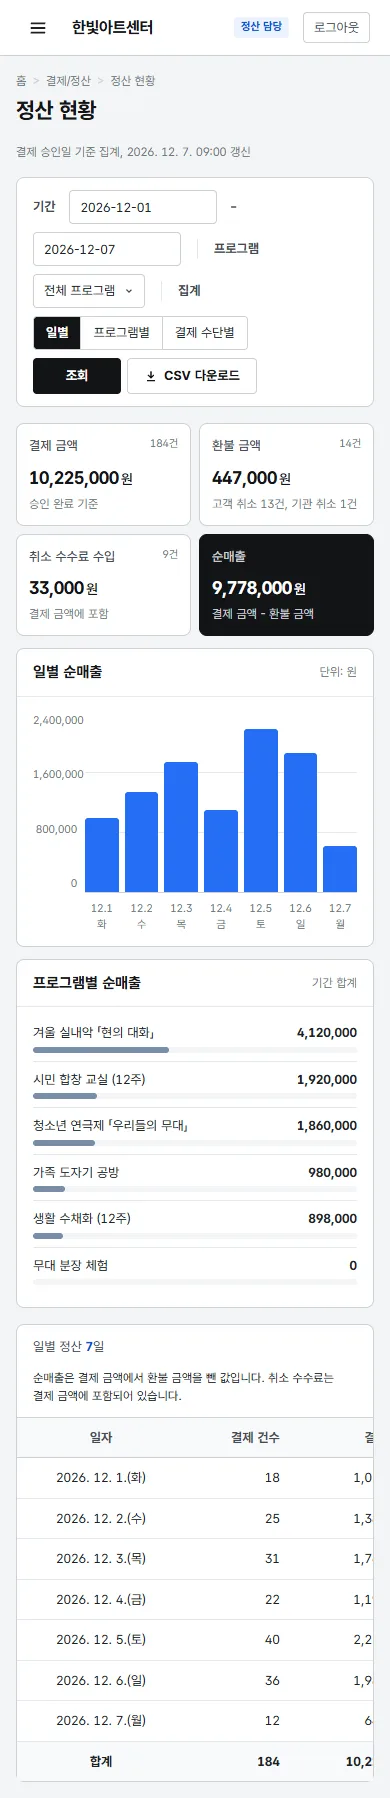
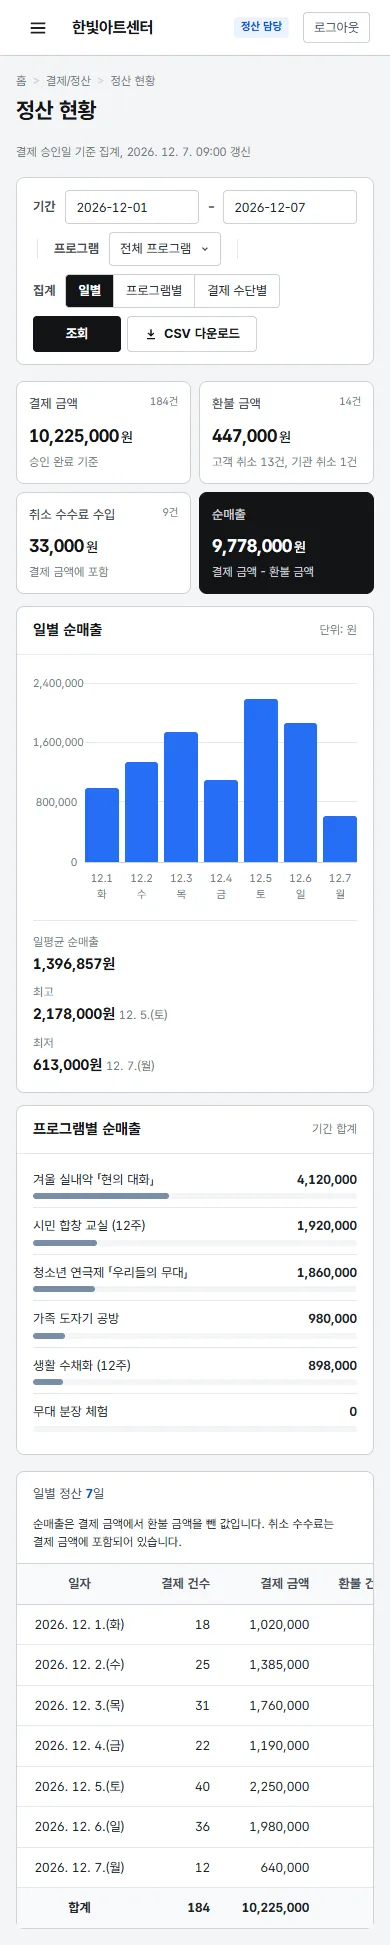
design: 시안 사용성, 반응형 검토 반영(태블릿, 중간 너비, 모바일 고정 바, 정산 그래프)

diff --git a/design/mockups/assets/css/user.css b/design/mockups/assets/css/user.css
@@ -178,6 +178,7 @@ button, input, select { font: inherit; color: inherit; }
 .note.info { background: var(--c-info-soft); color: var(--c-info-text); }
 .note.info svg { color: var(--c-info-text); }
 .mobile-bar { display: none; }
+.m-timer { display: none; }
 
 /* 예매 단계 */
 .steps { display: flex; list-style: none; margin: 0; padding: var(--sp-5) 0; gap: 0; counter-reset: step; }
@@ -226,7 +227,8 @@ button, input, select { font: inherit; color: inherit; }
 .view-toggle button[aria-pressed="true"] { background: var(--c-ink); color: #fff; }
 .hall { margin-top: var(--sp-5); padding: var(--sp-5) var(--sp-4) var(--sp-6); background: #fff; border: 1px solid var(--c-line-soft); border-radius: var(--r-lg); }
 .stage { margin: 0 auto var(--sp-6); width: 62%; height: 34px; border-radius: 0 0 50% 50% / 0 0 100% 100%; background: #dfe2e5; display: grid; place-items: center; font-size: var(--fs-xsmall); font-weight: 700; color: var(--c-text-2); letter-spacing: .3em; }
-.rows { display: grid; gap: 6px; justify-content: center; }
+.hall-scroll { overflow-x: auto; margin: 0 -4px; padding: 4px; }
+.rows { display: grid; gap: 6px; width: max-content; margin: 0 auto; }
 .row { display: grid; grid-template-columns: 18px repeat(4, var(--seat)) 14px repeat(12, var(--seat)) 14px repeat(4, var(--seat)) 18px; gap: 4px; align-items: center; --seat: 22px; }
 .row > .lbl { font-size: 0.6875rem; color: var(--c-text-3); text-align: center; font-weight: 500; }
 .row > .gap { width: 14px; }
@@ -237,6 +239,7 @@ button, input, select { font: inherit; color: inherit; }
 .seat.sold { background: #dfe2e5; cursor: not-allowed; }
 .seat.sel { background: var(--c-action); box-shadow: 0 0 0 2px #fff, 0 0 0 4px var(--c-action); }
 .seat.hold { background: #dfe2e5; cursor: not-allowed; }
+.scroll-hint { display: none; margin: 10px 0 0; font-size: var(--fs-xsmall); color: var(--c-text-3); text-align: center; }
 .hall-foot { display: flex; justify-content: space-between; margin-top: var(--sp-5); font-size: var(--fs-xsmall); color: var(--c-text-3); }
 
 /* 결제 */
@@ -270,7 +273,7 @@ button, input, select { font: inherit; color: inherit; }
 .mypage { display: grid; grid-template-columns: 220px minmax(0, 1fr); gap: var(--sp-7); padding-top: var(--sp-6); padding-bottom: var(--sp-8); align-items: start; }
 .side-nav h2 { font-size: var(--fs-h3); margin: 0 0 var(--sp-3); color: var(--c-ink); }
 .side-nav ul { list-style: none; margin: 0; padding: 0; display: grid; gap: 2px; }
-.side-nav a { display: flex; justify-content: space-between; padding: 10px 12px; border-radius: var(--r-md); color: var(--c-text-2); font-size: var(--fs-small); }
+.side-nav a { display: flex; justify-content: space-between; gap: 6px; white-space: nowrap; padding: 10px 12px; border-radius: var(--r-md); color: var(--c-text-2); font-size: var(--fs-small); }
 .side-nav a[aria-current="page"] { background: var(--c-surface-2); color: var(--c-ink); font-weight: 700; }
 .side-nav a em { font-style: normal; color: var(--c-text-3); font-variant-numeric: tabular-nums; }
 .page-title { margin: 0 0 var(--sp-5); font-size: var(--fs-h1); letter-spacing: -0.03em; color: var(--c-ink); }
@@ -298,7 +301,8 @@ button, input, select { font: inherit; color: inherit; }
 /* 반응형 */
 @media (max-width: 1100px) {
   .grid { gap: var(--sp-6) var(--sp-4); }
-  .hero-grid { grid-template-columns: 1fr; gap: var(--sp-6); }
+  .hero-grid { gap: var(--sp-6); }
+  .hero-feature { grid-template-columns: minmax(0, 0.9fr) minmax(0, 1.1fr); }
   .booking { grid-template-columns: minmax(0, 1fr) 320px; }
   .row { --seat: 18px; gap: 3px; }
 }
@@ -310,15 +314,19 @@ button, input, select { font: inherit; color: inherit; }
   .quick { grid-template-columns: repeat(2, 1fr); }
   .quick a:nth-child(3) { border-left: 0; }
   .quick a:nth-child(n+3) { border-top: 1px solid var(--c-line-soft); }
-  .detail { grid-template-columns: 1fr; gap: var(--sp-5); }
-  .detail .d-poster { position: static; max-width: 320px; }
+  .hero-grid { grid-template-columns: 1fr; }
+  .hero-feature { grid-template-columns: 220px minmax(0, 1fr); }
+  .detail { grid-template-columns: 240px minmax(0, 1fr); gap: var(--sp-5); }
+  .detail .d-poster { top: 80px; }
   .cast { grid-template-columns: repeat(2, minmax(0, 1fr)); }
   .tabs { top: 60px; overflow-x: auto; gap: var(--sp-4); }
   .tabs a { white-space: nowrap; }
-  .booking { grid-template-columns: 1fr; }
+  .booking { grid-template-columns: minmax(0, 1fr); }
   .summary { position: static; }
   .mypage { grid-template-columns: 1fr; gap: var(--sp-4); }
-  .side-nav ul { display: flex; overflow-x: auto; }
+  .side-nav ul { display: flex; overflow-x: auto; gap: var(--sp-4); border-bottom: 1px solid var(--c-line-soft); }
+  .side-nav a { padding: 10px 0; border-radius: 0; margin-bottom: -1px; border-bottom: 2px solid transparent; }
+  .side-nav a[aria-current="page"] { background: none; border-bottom-color: var(--c-ink); }
   .side-nav h2 { display: none; }
   .notice-strip .container { grid-template-columns: 1fr; gap: var(--sp-3); }
   .cta-row.desktop { display: none; }
@@ -326,6 +334,10 @@ button, input, select { font: inherit; color: inherit; }
   .mobile-bar .mb-info { font-size: var(--fs-xsmall); color: var(--c-text-3); }
   .mobile-bar .mb-info b { display: block; font-size: 1rem; color: var(--c-ink); font-variant-numeric: tabular-nums; }
   .mobile-bar .btn { flex: 1; }
+  .m-timer { display: flex; justify-content: space-between; align-items: center; position: sticky; top: 60px; z-index: 12; padding: 10px var(--gutter); background: var(--c-warn-soft); color: var(--c-warn-text); font-size: var(--fs-small); font-weight: 500; }
+  .m-timer b { font-variant-numeric: tabular-nums; }
+  .summary .timer { display: none; }
+  .summary .btn-primary.btn-block { display: none; }
   .steps li { font-size: 0; gap: 0; }
   .steps li[aria-current="step"] { font-size: var(--fs-xsmall); gap: 8px; }
 }
@@ -342,11 +354,12 @@ button, input, select { font: inherit; color: inherit; }
   .seg { overflow-x: auto; }
   .filters .right { justify-content: space-between; }
   .spec { grid-template-columns: 80px 1fr; }
+  .detail { grid-template-columns: 1fr; }
+  .detail .d-poster { position: static; max-width: 240px; }
   .panel-body { padding: var(--sp-4); }
-  .row { --seat: 11px; gap: 2px; grid-template-columns: 12px repeat(4, var(--seat)) 6px repeat(12, var(--seat)) 6px repeat(4, var(--seat)) 12px; }
-  .row > .gap { width: 6px; }
-  .seat { border-radius: 2px 2px 3px 3px; }
-  .seat.sel { box-shadow: 0 0 0 1px #fff, 0 0 0 2px var(--c-action); }
+  .row { --seat: 20px; gap: 3px; }
+  .scroll-hint { display: block; }
+  .stage { width: 80%; }
   .hall { padding: var(--sp-4) var(--sp-2) var(--sp-5); }
   .methods { grid-template-columns: 1fr; }
   .card-fields { grid-template-columns: 1fr; }

diff --git a/design/mockups/assets/css/admin.css b/design/mockups/assets/css/admin.css
@@ -79,7 +79,7 @@ select.ctl { appearance: none; padding-right: 28px; background: #fff url("data:i
 .toolbar { display: flex; align-items: center; justify-content: space-between; gap: 12px; padding: 12px 16px; border-bottom: 1px solid var(--c-line); flex-wrap: wrap; }
 .toolbar .total { font-size: 13px; color: var(--c-text-2); }
 .toolbar .total b { color: var(--c-action-text); font-variant-numeric: tabular-nums; }
-.toolbar .tools { display: flex; align-items: center; gap: 6px; }
+.toolbar .tools { display: flex; align-items: center; gap: 6px; flex-wrap: wrap; }
 .table-scroll { overflow-x: auto; }
 .grid-table { width: 100%; border-collapse: collapse; font-size: 13px; min-width: 1100px; }
 .grid-table th { position: sticky; top: 0; background: #f8f9fa; font-weight: 700; color: var(--c-text-2); text-align: center; padding: 10px 10px; border-bottom: 1px solid var(--c-line); white-space: nowrap; }
@@ -110,6 +110,7 @@ select.ctl { appearance: none; padding-right: 28px; background: #fff url("data:i
 /* 정산 */
 .filter-bar { display: flex; flex-wrap: wrap; align-items: center; gap: 8px 12px; background: #fff; border: 1px solid var(--c-line); border-radius: var(--r-md); padding: 12px 16px; }
 .filter-bar .fl { font-size: 13px; font-weight: 700; color: var(--c-text-2); margin-right: 2px; }
+.filter-bar .fg { display: inline-flex; align-items: center; gap: 8px; white-space: nowrap; }
 .filter-bar .sep { width: 1px; height: 20px; background: var(--c-line-soft); margin: 0 4px; }
 .filter-bar .push { margin-left: auto; display: flex; gap: 6px; }
 .kpis { display: grid; grid-template-columns: repeat(4, minmax(0, 1fr)); gap: 12px; margin-top: 16px; }
@@ -122,20 +123,28 @@ select.ctl { appearance: none; padding-right: 28px; background: #fff url("data:i
 .kpi.net { background: var(--c-ink); border-color: var(--c-ink); }
 .kpi.net .k-label, .kpi.net .k-note { color: #cdd1d5; }
 .kpi.net .k-value { color: #fff; }
-.two-col { display: grid; grid-template-columns: minmax(0, 1.4fr) minmax(0, 1fr); gap: 12px; margin-top: 12px; }
+.two-col { display: grid; grid-template-columns: minmax(0, 1.4fr) minmax(0, 1fr); gap: 12px; margin-top: 12px; align-items: stretch; }
+.two-col .card { display: flex; flex-direction: column; }
+.two-col .card .chart { flex: 1; }
 .card { background: #fff; border: 1px solid var(--c-line); border-radius: var(--r-md); }
 .card-head { display: flex; justify-content: space-between; align-items: center; padding: 12px 16px; border-bottom: 1px solid var(--c-line-soft); }
 .card-head h2 { margin: 0; font-size: 15px; color: var(--c-ink); }
 .card-head small { font-size: 12px; color: var(--c-text-3); }
-.chart { display: grid; grid-template-columns: 56px 1fr; gap: 8px; padding: 16px 16px 12px; }
-.chart .axis { display: flex; flex-direction: column; justify-content: space-between; font-size: 11px; color: var(--c-text-3); text-align: right; height: 180px; font-variant-numeric: tabular-nums; }
-.chart .plot { position: relative; height: 180px; display: grid; grid-template-columns: repeat(7, 1fr); gap: 14px; align-items: end; border-bottom: 1px solid var(--c-line); background: repeating-linear-gradient(to top, transparent 0, transparent 59px, var(--c-line-soft) 59px, var(--c-line-soft) 60px); }
-.chart .bar { position: relative; background: var(--c-action); border-radius: 3px 3px 0 0; min-height: 2px; }
+.chart { display: grid; grid-template-columns: 56px 1fr; grid-template-rows: minmax(180px, 1fr) auto; gap: 8px; padding: 28px 16px 12px; }
+.chart .axis { display: flex; flex-direction: column; justify-content: space-between; font-size: 11px; line-height: 1; color: var(--c-text-3); text-align: right; font-variant-numeric: tabular-nums; margin: -5px 0 -5px; }
+.chart .plot { position: relative; display: grid; grid-template-columns: repeat(7, 1fr); gap: 14px; align-items: end; border-bottom: 1px solid var(--c-line); background-image: linear-gradient(var(--c-line-soft), var(--c-line-soft)), linear-gradient(var(--c-line-soft), var(--c-line-soft)), linear-gradient(var(--c-line-soft), var(--c-line-soft)); background-size: 100% 1px; background-repeat: no-repeat; background-position: 0 0, 0 33.333%, 0 66.666%; }
+.chart .plot .bar { align-self: end; }
+.chart .bar { position: relative; background: var(--c-action); border-radius: 3px 3px 0 0; min-height: 2px; max-width: 56px; width: 100%; justify-self: center; }
 .chart .bar.refund { position: absolute; left: 0; right: 0; bottom: 0; background: #f48771; border-radius: 0; }
 .chart .bar span { position: absolute; bottom: calc(100% + 4px); left: 50%; transform: translateX(-50%); font-size: 11px; color: var(--c-text-2); white-space: nowrap; font-variant-numeric: tabular-nums; }
 .chart .xl { grid-column: 2; display: grid; grid-template-columns: repeat(7, 1fr); gap: 14px; font-size: 11px; color: var(--c-text-3); text-align: center; }
-.chart-legend { display: flex; gap: 14px; padding: 0 16px 14px 80px; font-size: 12px; color: var(--c-text-2); }
-.chart-legend i { display: inline-block; width: 10px; height: 10px; border-radius: 2px; margin-right: 5px; vertical-align: -1px; }
+.chart-stats { display: grid; grid-template-columns: repeat(3, minmax(0, 1fr)); margin: 4px 16px 16px; border-top: 1px solid var(--c-line-soft); }
+.chart-stats div { padding: 12px 0 0; }
+.chart-stats div + div { padding-left: 16px; border-left: 1px solid var(--c-line-soft); margin-top: 12px; padding-top: 0; }
+.chart-stats div:first-child { margin-top: 0; }
+.chart-stats dt { font-size: 12px; color: var(--c-text-3); }
+.chart-stats dd { margin: 2px 0 0; font-size: 15px; font-weight: 700; color: var(--c-ink); font-variant-numeric: tabular-nums; }
+.chart-stats dd small { font-size: 12px; font-weight: 400; color: var(--c-text-3); margin-left: 4px; }
 .share { list-style: none; margin: 0; padding: 8px 16px 14px; }
 .share li { display: grid; grid-template-columns: minmax(0, 1fr) auto; gap: 4px 12px; padding: 8px 0; border-bottom: 1px solid var(--c-line-soft); font-size: 13px; }
 .share li:last-child { border-bottom: 0; }
@@ -178,5 +187,6 @@ select.ctl { appearance: none; padding-right: 28px; background: #fff url("data:i
   .chart { grid-template-columns: 44px 1fr; }
   .chart .plot, .chart .xl { gap: 6px; }
   .chart .bar span { display: none; }
-  .chart-legend { padding-left: 16px; }
+  .chart-stats { grid-template-columns: 1fr; }
+  .chart-stats div + div { border-left: 0; padding-left: 0; margin-top: 0; padding-top: 8px; }
 }

diff --git a/design/mockups/admin-settlement.html b/design/mockups/admin-settlement.html
@@ -47,13 +47,11 @@
     </div>
 
     <div class="filter-bar">
-      <span class="fl">기간</span>
-      <label class="sr-only" for="f1">시작일</label><input class="ctl date" id="f1" value="2026-12-01"><span>-</span><label class="sr-only" for="f2">종료일</label><input class="ctl date" id="f2" value="2026-12-07">
+      <span class="fg"><span class="fl">기간</span><label class="sr-only" for="f1">시작일</label><input class="ctl date" id="f1" value="2026-12-01"><span>-</span><label class="sr-only" for="f2">종료일</label><input class="ctl date" id="f2" value="2026-12-07"></span>
       <span class="sep" aria-hidden="true"></span>
-      <label class="fl" for="fp">프로그램</label><select class="ctl" id="fp"><option>전체 프로그램</option></select>
+      <span class="fg"><label class="fl" for="fp">프로그램</label><select class="ctl" id="fp"><option>전체 프로그램</option></select></span>
       <span class="sep" aria-hidden="true"></span>
-      <span class="fl">집계</span>
-      <span class="seg" role="group" aria-label="집계 기준"><button type="button" aria-pressed="true">일별</button><button type="button" aria-pressed="false">프로그램별</button><button type="button" aria-pressed="false">결제 수단별</button></span>
+      <span class="fg"><span class="fl">집계</span><span class="seg" role="group" aria-label="집계 기준"><button type="button" aria-pressed="true">일별</button><button type="button" aria-pressed="false">프로그램별</button><button type="button" aria-pressed="false">결제 수단별</button></span></span>
       <div class="push"><button class="btn btn-dark" type="button">조회</button><button class="btn" type="button"><svg width="14" height="14" viewBox="0 0 24 24" fill="none" stroke="currentColor" stroke-width="2.2" aria-hidden="true"><path d="M12 4v11M7 10l5 5 5-5M5 20h14"/></svg>CSV 다운로드</button></div>
     </div>
 
@@ -80,6 +78,11 @@
           </div>
           <div class="xl" aria-hidden="true"><span>12.1 화</span><span>12.2 수</span><span>12.3 목</span><span>12.4 금</span><span>12.5 토</span><span>12.6 일</span><span>12.7 월</span></div>
         </div>
+        <dl class="chart-stats">
+          <div><dt>일평균 순매출</dt><dd>1,396,857원</dd></div>
+          <div><dt>최고</dt><dd>2,178,000원<small>12. 5.(토)</small></dd></div>
+          <div><dt>최저</dt><dd>613,000원<small>12. 7.(월)</small></dd></div>
+        </dl>
       </section>
 
       <section class="card" aria-labelledby="c2">
@@ -98,7 +101,7 @@
     <section class="result" aria-label="일별 정산표">
       <div class="toolbar"><span class="total">일별 정산 <b>7</b>일</span><span class="muted" style="font-size:12px">순매출은 결제 금액에서 환불 금액을 뺀 값입니다. 취소 수수료는 결제 금액에 포함되어 있습니다.</span></div>
       <div class="table-scroll">
-        <table class="grid-table" style="min-width:860px">
+        <table class="grid-table" style="min-width:640px">
           <caption class="sr-only">일별 정산표</caption>
           <thead><tr><th scope="col">일자</th><th scope="col" class="r">결제 건수</th><th scope="col" class="r">결제 금액</th><th scope="col" class="r">환불 건수</th><th scope="col" class="r">환불 금액</th><th scope="col" class="r">취소 수수료</th><th scope="col" class="r">순매출</th></tr></thead>
           <tbody>

diff --git a/design/mockups/user-seat.html b/design/mockups/user-seat.html
@@ -40,6 +40,7 @@
     </ol>
   </div>
 </div>
+<div class="m-timer" role="timer" aria-live="off"><span>남은 선점 시간</span><b>08:42</b></div>
 
 <main id="main" class="container booking">
   <section class="panel" aria-labelledby="seat-title">
@@ -63,7 +64,8 @@
       </div>
       <div class="hall">
         <div class="stage">STAGE</div>
-        <div class="rows" id="rows"></div>
+        <div class="hall-scroll"><div class="rows" id="rows"></div></div>
+        <p class="scroll-hint">좌석도는 좌우로 밀어서 볼 수 있습니다.</p>
         <div class="hall-foot"><span>출입구</span><span>휠체어석 J열 양끝</span><span>출입구</span></div>
       </div>
     </div>
@@ -90,6 +92,11 @@
     </div>
   </aside>
 </main>
+
+<div class="mobile-bar">
+  <div class="mb-info">S석 2매<b>60,000원</b></div>
+  <a class="btn btn-primary" href="user-checkout.html">다음: 할인 선택</a>
+</div>
 
 <footer class="site-footer">
   <div class="container">
@@ -129,6 +136,9 @@
     row.insertAdjacentHTML('beforeend', '<span class="lbl" aria-hidden="true">' + r + '</span>');
     el.appendChild(row);
   }
+  // 좁은 화면에서는 무대 중앙이 먼저 보이게
+  const sc = document.querySelector('.hall-scroll');
+  sc.scrollLeft = (sc.scrollWidth - sc.clientWidth) / 2;
 </script>
 </body>
 </html>

diff --git a/design/mockups/user-checkout.html b/design/mockups/user-checkout.html
@@ -40,6 +40,7 @@
     </ol>
   </div>
 </div>
+<div class="m-timer" role="timer" aria-live="off"><span>남은 선점 시간</span><b>06:15</b></div>
 
 <main id="main" class="container booking">
   <div>
@@ -113,6 +114,11 @@
     </div>
   </aside>
 </main>
+
+<div class="mobile-bar">
+  <div class="mb-info">최종 결제 금액<b>30,000원</b></div>
+  <a class="btn btn-primary" href="user-mybooking.html">결제하기</a>
+</div>
 
 <footer class="site-footer">
   <div class="container">

diff --git a/portfolio/README.md b/portfolio/README.md
@@ -82,3 +82,15 @@
   - 관리자 화면: 상단 바(자동 로그아웃 시간, 역할), 좌측 메뉴 트리, 조회 조건 상자(라벨 열 + 입력 열), 목록 표, 페이지 이동. 상태는 글자가 있는 색 칩, 개인정보는 가림 처리
   - 정산 수치는 「순매출 = 결제 - 환불」이 표, 카드, 그래프에서 모두 맞도록 계산
 - **자체 점검에서 고친 것**: 밝은 포스터의 날짜가 사진에 묻힘, 좌석 판매 표시의 빗금이 시선을 흩뜨림, `.info` 클래스가 겹쳐 안내 상자 위에 검은 선이 생김, 예매/마이페이지 화면의 좌우 여백 사라짐, 390px에서 좌석도가 16px 넘침, 관리자 좌측 메뉴 배경이 첫 화면 높이에서 끊김
+
+### 시안 전체 검토 (사용자 요청: 버그뿐 아니라 사용성, 애매한 UI, 태블릿과 중간 너비)
+- **방법**: 1440, 1180, 1100, 1024, 960, 900, 860, 820, 768, 700, 600, 480, 430, 360px에서 가로 넘침을 자동으로 검사했다. 페이지 전체뿐 아니라 부모 상자 밖으로 삐져나온 요소까지 찾는 스크립트(`tools/deliverables/overflow.mjs`)를 썼다. 1024와 768은 캡처로 직접 보았다.
+- **고친 것**
+  - 정산: 일별 그래프 카드 아래가 비던 문제 → 그래프가 카드 높이를 채우고, 아래에 일평균/최고/최저를 넣어 옆 카드와 높이를 맞춤. 1024에서 정산표 마지막 열(순매출)이 가려지던 문제, 조회 조건이 라벨과 입력이 떨어져 줄바꿈되던 문제
+  - 좌석: 900px에서 좌석도가 패널 밖으로 51px 넘침, 390px에서 좌석이 11px로 작아져 누르기 어려움 → 좌석은 20px 이상 유지하고 좌석도 안에서만 좌우로 밀게 바꿈, 처음에는 무대 중앙이 보이도록 함
+  - 예매/결제 모바일: 남은 선점 시간과 다음 버튼이 긴 화면 맨 아래에 있던 문제 → 선점 시간은 상단에 고정, 금액과 다음/결제 버튼은 하단에 고정
+  - 목록 1024: 대표 공연 포스터가 화면 폭만큼 커지던 문제 → 860px까지는 두 단 유지
+  - 상세 768: 포스터가 왼쪽에 작게 남고 오른쪽이 비던 문제 → 포스터 240px + 정보 두 단
+  - 마이페이지 모바일: 메뉴 이름과 건수가 붙어 보이던 문제 → 밑줄 탭 형태로 정리
+  - 관리자 360px: 목록 도구 버튼이 상자 밖으로 넘침
+- **결과**: 14개 너비 x 7장 모두 가로 넘침 0건. 캡처는 PC, 태블릿(768), 모바일 3종 21장으로 갱신

diff --git a/portfolio/numbers.md b/portfolio/numbers.md
@@ -23,3 +23,4 @@
 - 시안 7장(사용자 5, 관리자 2) x 2개 너비 = 캡처 14장
 - 무료 사진 후보 14장 중 7장 채택(포스터 6, 예비 1)
 - 자체 점검으로 고친 결함 6건, 390px 가로 넘침 0건(7장 모두 자동 확인)
+- 전체 검토: 14개 너비 자동 검사, 사용성/반응형 문제 9건 수정, 캡처 21장(PC, 태블릿, 모바일)
